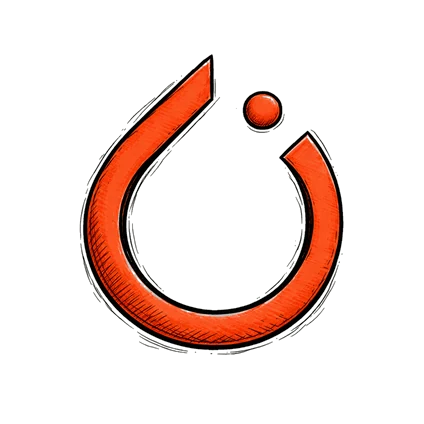
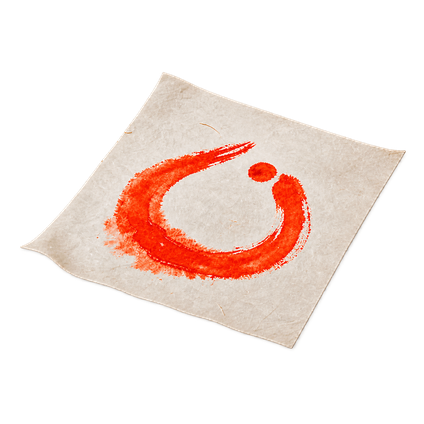
docs(blog): refresh PyTorch thumbnail artwork
Add the low-angle brush-painted wooden PyTorch icon and apply it to the Apple Silicon setup post. Preserve the orange-ink hanji variant and the topic-specific FDTD thumbnails.

diff --git a/_posts/2026-04-20-pytorch-uv-mac-setup.md b/_posts/2026-04-20-pytorch-uv-mac-setup.md
@@ -4,7 +4,7 @@ title: Apple Silicon 맥에서 PyTorch를 uv로 설치하고 사용하는 방법
 subtitle: brew로 uv를 설치하고 Apple Silicon에서 PyTorch와 MPS까지 바로 확인하기
 tags: [python, pytorch, uv, mac, apple-silicon, machine-learning]
 cover-img: /assets/img/develop.jpeg
-thumbnail-img: /assets/img/python.webp
+thumbnail-img: /assets/img/pytorch-wood.webp
 share-img: /assets/img/develop.jpeg
 author: 전경원
 ---
